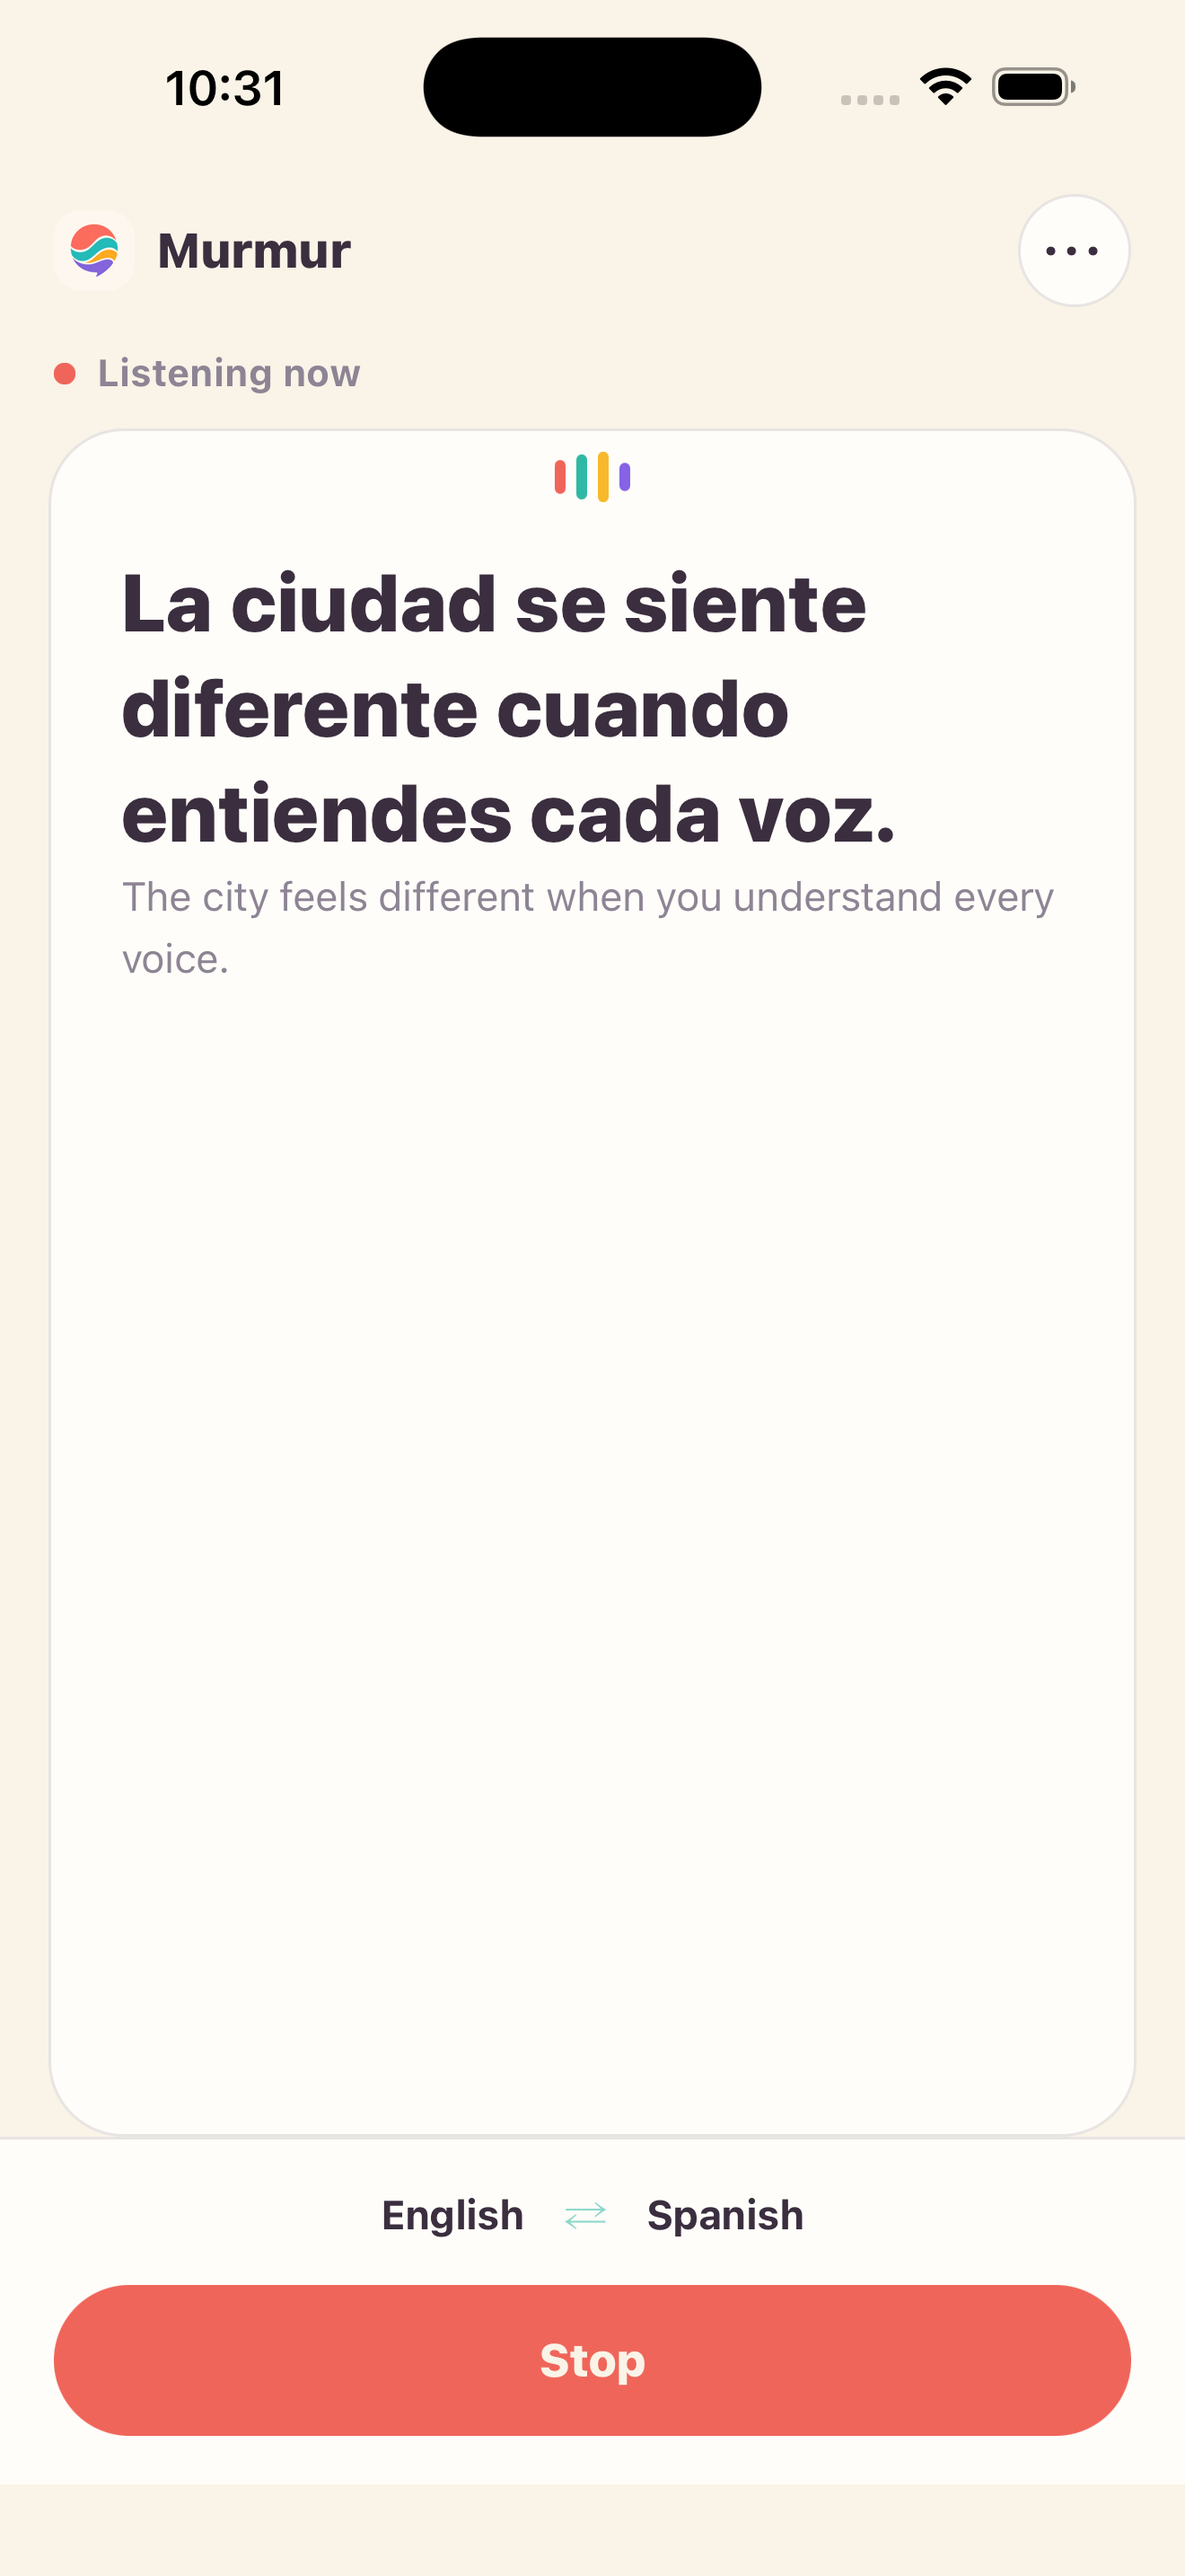
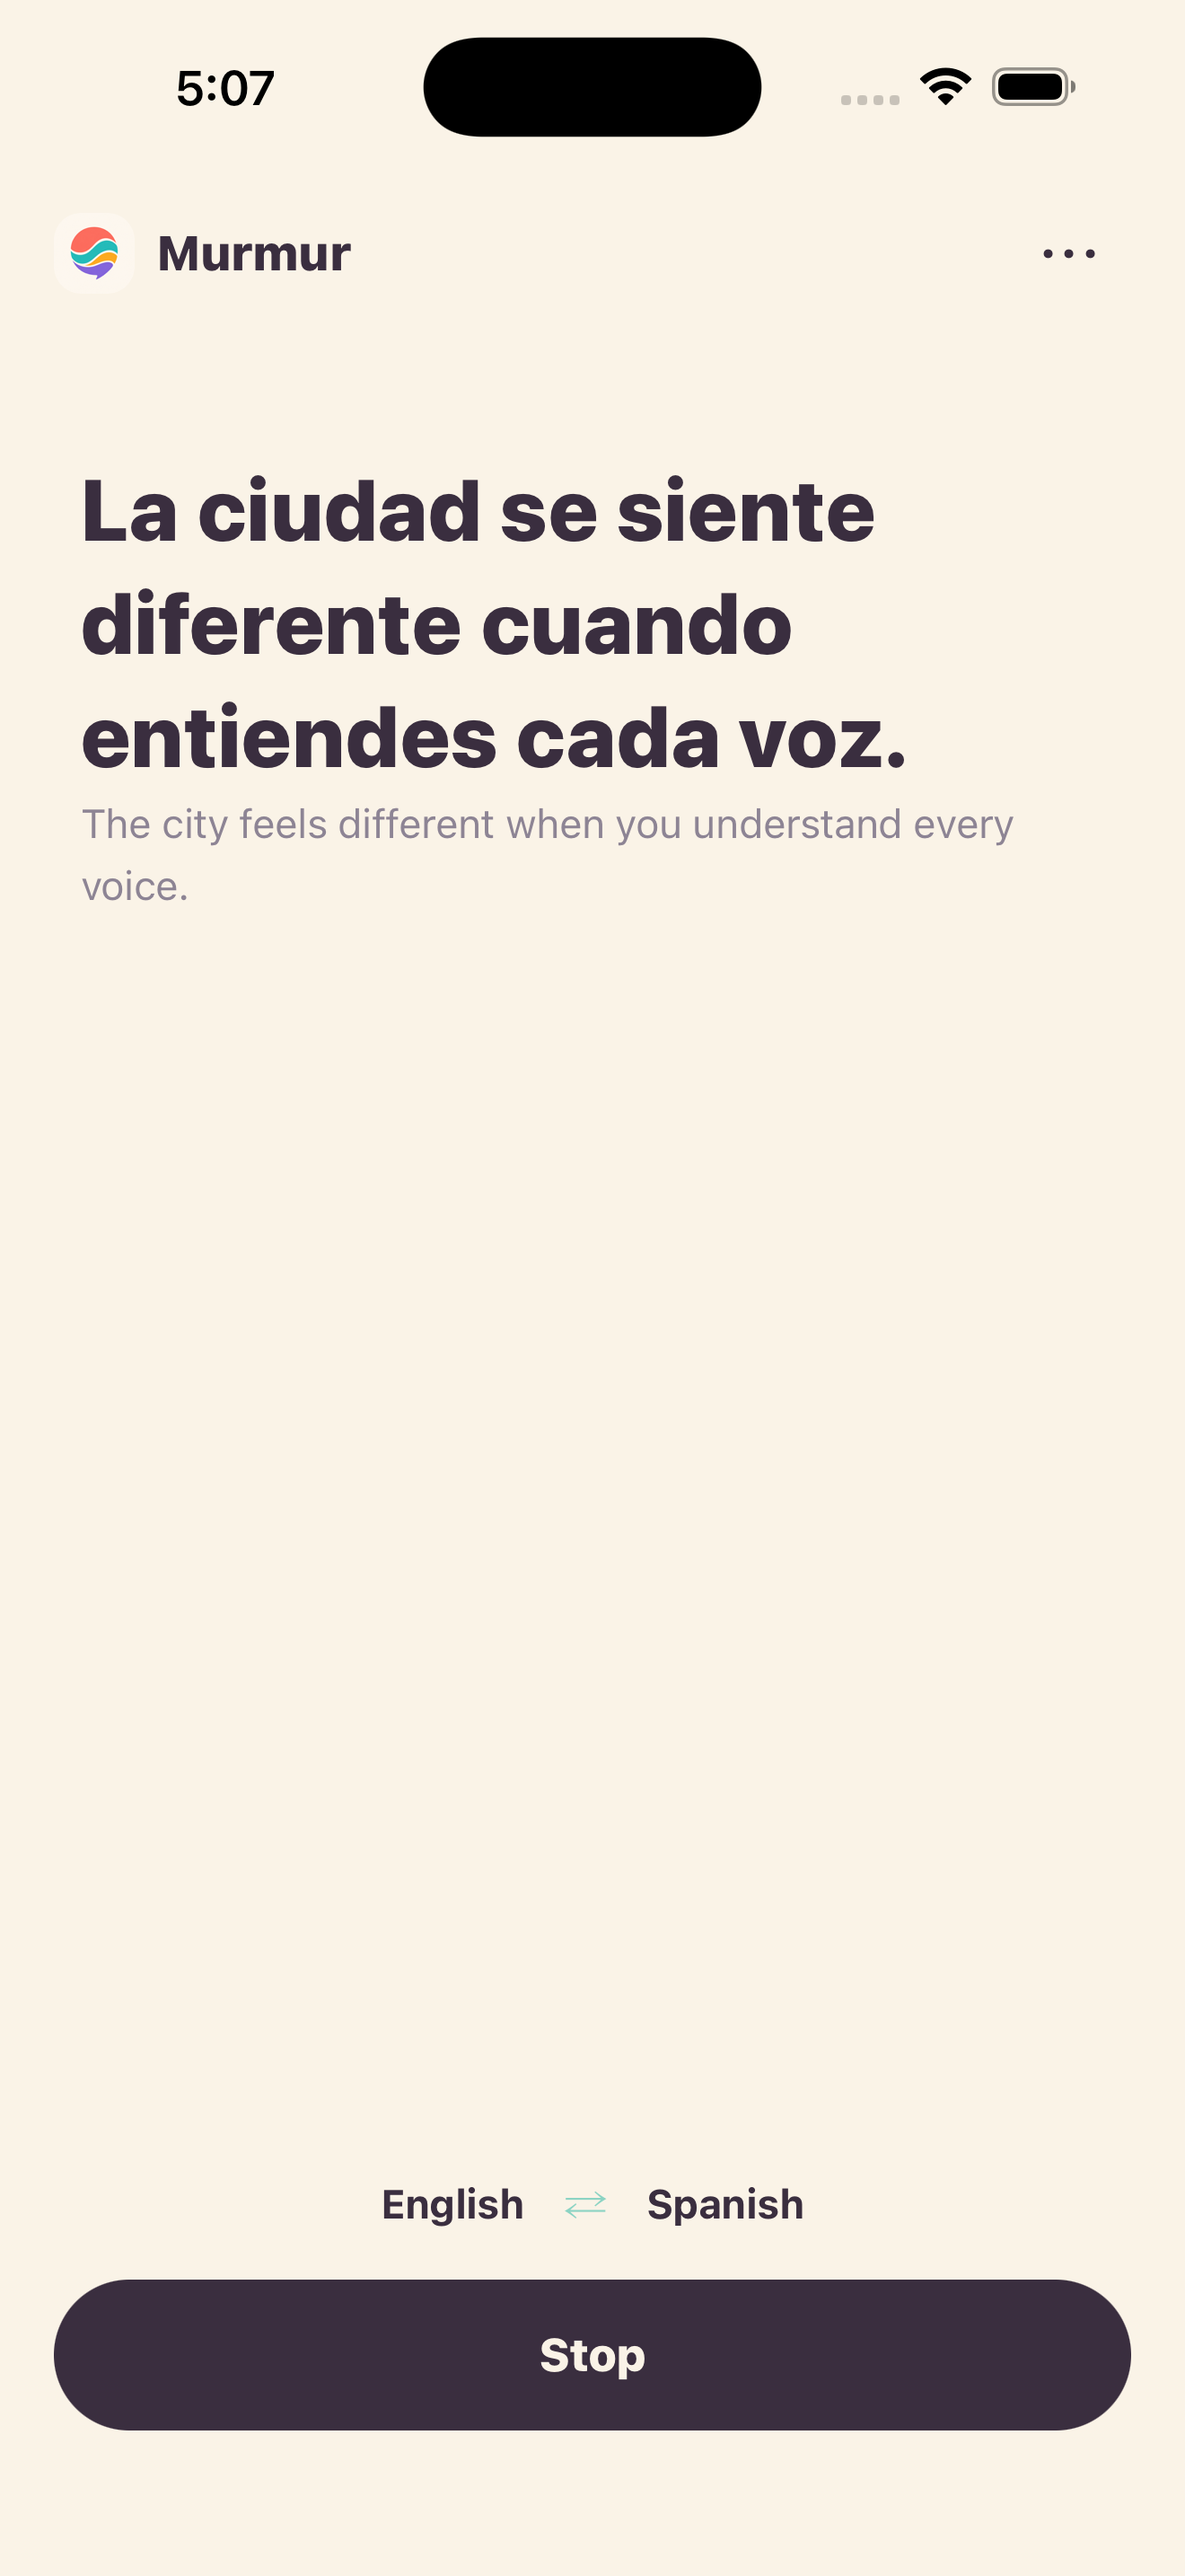
fix(mobile): simplify translation screen

diff --git a/apps/mobile/src/home/variants/bloom/index.tsx b/apps/mobile/src/home/variants/bloom/index.tsx
@@ -24,7 +24,6 @@ export function BloomShell(props: VariantShellProps): ReactNode {
     <SafeAreaView style={styles.screen}>
       <StatusBar barStyle="dark-content" />
       <BloomChrome onOpenSettings={props.onOpenSettings} />
-      <LiveStatus isLive={viewModel.isLive} />
       <TranslationStage {...props} />
       <View style={styles.controlColumn}>
         <StatusMessages errorStyle={styles.error} live={live} receiptStyle={styles.receipt} />
@@ -45,7 +44,7 @@ export function BloomShell(props: VariantShellProps): ReactNode {
           pressedStyle={styles.pressed}
           startLabel="Listen"
           stopLabel="Stop"
-          style={[styles.listenPill, viewModel.isLive && styles.stopPill]}
+          style={styles.listenPill}
           textStyle={styles.listenPillText}
         />
       </View>
@@ -112,69 +111,24 @@ export function BreathingBlob({ isLive }: { isLive: boolean }): ReactNode {
   );
 }
 
-function LiveStatus({ isLive }: { isLive: boolean }): ReactNode {
-  const reducedMotion = useReducedMotion();
-  const pulse = usePulse(isLive && !reducedMotion, reducedMotion, 1800);
-  const dotScale = pulse.interpolate({ inputRange: [0, 1], outputRange: [1, 1.16] });
-  const label = isLive ? "Listening now" : "Ready to listen";
-
-  return (
-    <View
-      accessible
-      accessibilityLabel={`Status: ${label}`}
-      accessibilityRole="text"
-      style={styles.liveStatus}
-    >
-      <Animated.View
-        style={[
-          styles.liveStatusDot,
-          isLive ? styles.liveStatusDotLive : styles.liveStatusDotReady,
-          { transform: [{ scale: dotScale }] },
-        ]}
-      />
-      <Text style={styles.liveStatusText}>{label}</Text>
-    </View>
-  );
-}
-
-function ListeningSignal({ isLive }: { isLive: boolean }): ReactNode {
-  const scale = useBreathScale(isLive, false);
-
-  return (
-    <View
-      accessibilityElementsHidden
-      importantForAccessibility="no-hide-descendants"
-      style={styles.signalWrap}
-    >
-      <Animated.View style={[styles.signalBar, styles.signalBarCoral, { transform: [{ scaleY: scale }] }]} />
-      <Animated.View style={[styles.signalBar, styles.signalBarTeal, { transform: [{ scaleY: scale }] }]} />
-      <Animated.View style={[styles.signalBar, styles.signalBarGold, { transform: [{ scaleY: scale }] }]} />
-      <Animated.View style={[styles.signalBar, styles.signalBarViolet, { transform: [{ scaleY: scale }] }]} />
-    </View>
-  );
-}
-
 function TranslationStage(props: VariantShellProps): ReactNode {
   return (
     <View style={styles.flexFill}>
-      <View style={styles.captionSurface}>
-        <ListeningSignal isLive={props.viewModel.isLive} />
-        <SpanTimeline
-          contentStyle={styles.timelineContent}
-          autoScrollRef={props.autoScrollRef}
-          live={props.live}
-          style={styles.flexFill}
-          textStyles={{
-            partial: styles.translationPartial,
-            rtl: styles.rtlText,
-            source: styles.sourceText,
-            translation: styles.timelineTranslation,
-          }}
-          timelineRef={props.timelineRef}
-          userInteractedRef={props.userInteractedRef}
-          viewModel={props.viewModel}
-        />
-      </View>
+      <SpanTimeline
+        contentStyle={styles.timelineContent}
+        autoScrollRef={props.autoScrollRef}
+        live={props.live}
+        style={styles.flexFill}
+        textStyles={{
+          partial: styles.translationPartial,
+          rtl: styles.rtlText,
+          source: styles.sourceText,
+          translation: styles.timelineTranslation,
+        }}
+        timelineRef={props.timelineRef}
+        userInteractedRef={props.userInteractedRef}
+        viewModel={props.viewModel}
+      />
     </View>
   );
 }

diff --git a/apps/mobile/src/home/variants/bloom/styles.ts b/apps/mobile/src/home/variants/bloom/styles.ts
@@ -38,16 +38,6 @@ export const styles = StyleSheet.create({
     paddingHorizontal: 20,
     paddingTop: 10,
   },
-  captionSurface: {
-    backgroundColor: bloomColors.surface,
-    borderColor: bloomColors.hairline,
-    borderRadius: 28,
-    borderWidth: 1,
-    flex: 1,
-    marginHorizontal: 18,
-    marginTop: 12,
-    overflow: "hidden",
-  },
   consentRow: {
     alignItems: "center",
     flexDirection: "row",
@@ -56,13 +46,10 @@ export const styles = StyleSheet.create({
   },
   controlColumn: {
     alignItems: "stretch",
-    backgroundColor: bloomColors.surface,
-    borderTopColor: bloomColors.hairline,
-    borderTopWidth: 1,
-    gap: 12,
-    paddingBottom: 18,
+    gap: 14,
+    paddingBottom: 20,
     paddingHorizontal: 20,
-    paddingTop: 14,
+    paddingTop: 12,
   },
   copy: {
     color: bloomColors.soft,
@@ -110,9 +97,6 @@ export const styles = StyleSheet.create({
     color: bloomColors.cream,
     fontSize: 17,
     fontWeight: "800",
-  },
-  stopPill: {
-    backgroundColor: bloomColors.coral,
   },
   modeTab: {
     color: bloomColors.soft,
@@ -177,13 +161,9 @@ export const styles = StyleSheet.create({
   },
   settingsButton: {
     alignItems: "center",
-    backgroundColor: bloomColors.surface,
-    borderColor: bloomColors.hairline,
-    borderRadius: 21,
-    borderWidth: 1,
-    height: 42,
+    height: 44,
     justifyContent: "center",
-    width: 42,
+    width: 44,
   },
   settingsGlyph: {
     color: bloomColors.plum,
@@ -208,34 +188,6 @@ export const styles = StyleSheet.create({
     fontSize: 15,
     lineHeight: 23,
   },
-  signalBar: {
-    borderRadius: 999,
-    height: 12,
-    width: 4,
-  },
-  signalBarCoral: {
-    backgroundColor: bloomColors.coral,
-  },
-  signalBarGold: {
-    backgroundColor: bloomColors.gold,
-    height: 18,
-  },
-  signalBarTeal: {
-    backgroundColor: bloomColors.teal,
-    height: 16,
-  },
-  signalBarViolet: {
-    backgroundColor: bloomColors.violet,
-    height: 10,
-  },
-  signalWrap: {
-    alignItems: "center",
-    flexDirection: "row",
-    gap: 4,
-    justifyContent: "center",
-    minHeight: 28,
-    paddingTop: 6,
-  },
   swapText: {
     color: bloomColors.teal,
     fontSize: 18,
@@ -243,16 +195,16 @@ export const styles = StyleSheet.create({
   },
   timelineContent: {
     flexGrow: 1,
-    gap: 22,
-    paddingBottom: 24,
-    paddingHorizontal: 26,
-    paddingTop: 16,
+    gap: 20,
+    paddingBottom: 32,
+    paddingHorizontal: 30,
+    paddingTop: 52,
   },
   timelineTranslation: {
     color: bloomColors.plum,
-    fontSize: 30,
+    fontSize: 32,
     fontWeight: "800",
-    lineHeight: 39,
+    lineHeight: 42,
   },
   title: {
     color: bloomColors.plum,
@@ -324,29 +276,5 @@ export const styles = StyleSheet.create({
     alignItems: "center",
     justifyContent: "center",
     minHeight: 224,
-  },
-  liveStatus: {
-    alignItems: "center",
-    flexDirection: "row",
-    gap: 8,
-    paddingHorizontal: 20,
-    paddingTop: 16,
-  },
-  liveStatusDot: {
-    borderRadius: 999,
-    height: 8,
-    width: 8,
-  },
-  liveStatusDotLive: {
-    backgroundColor: bloomColors.coral,
-  },
-  liveStatusDotReady: {
-    backgroundColor: bloomColors.teal,
-  },
-  liveStatusText: {
-    color: bloomColors.soft,
-    fontSize: 14,
-    fontWeight: "700",
-    letterSpacing: 0.2,
   },
 });
